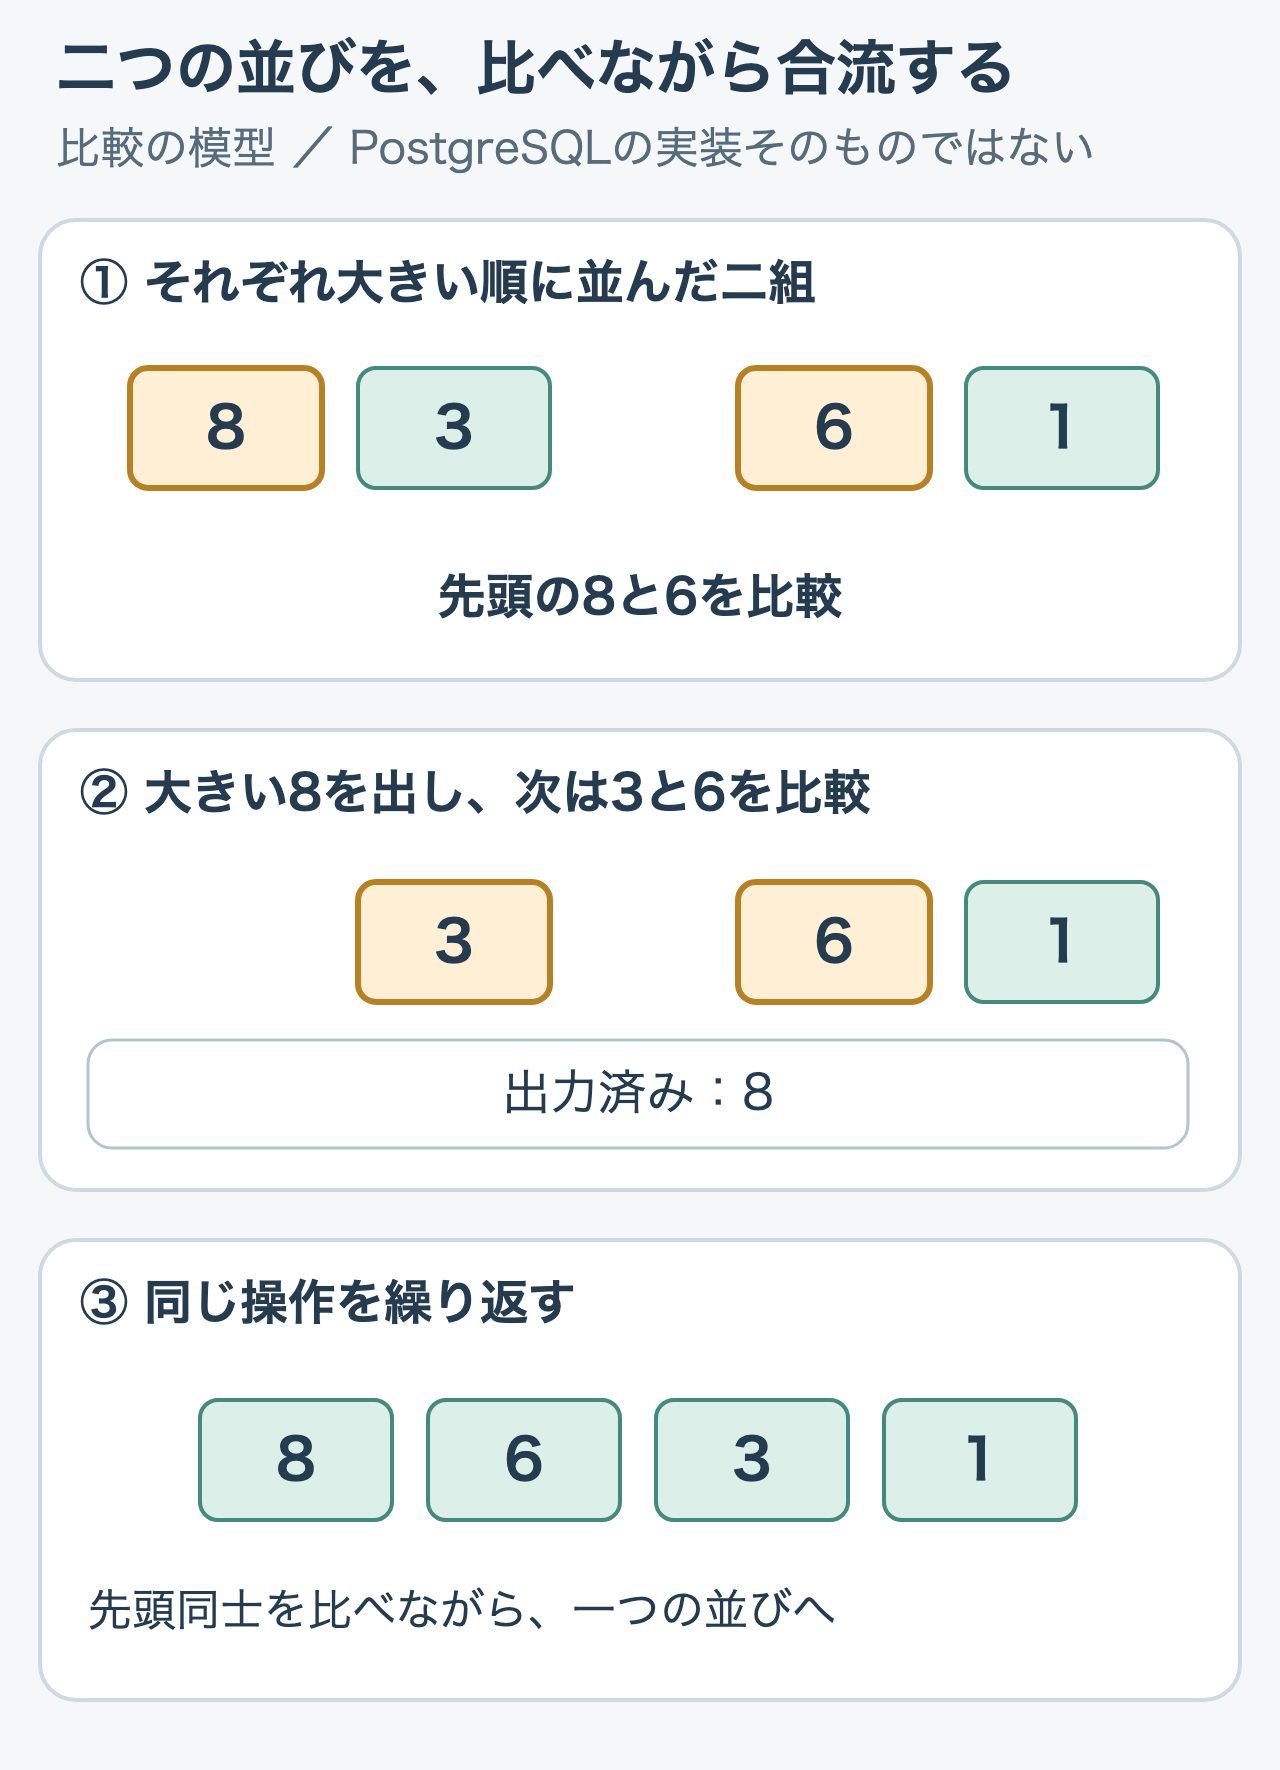
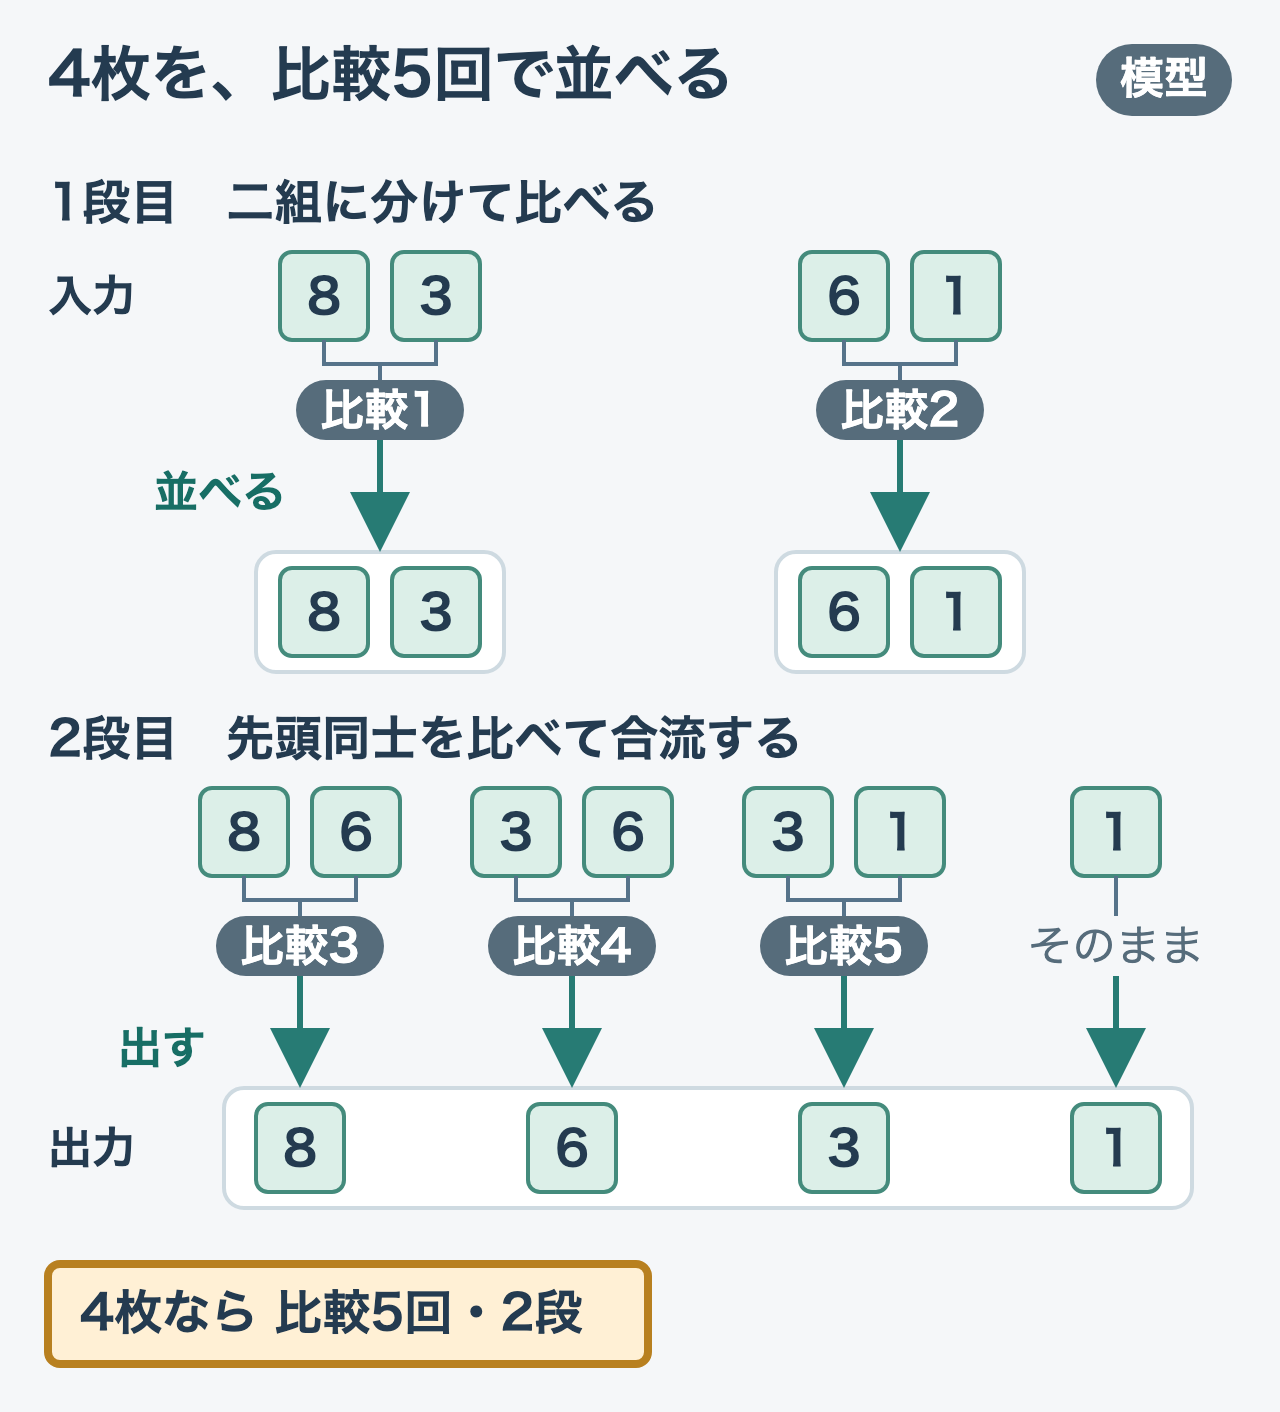
docs(query-journey): 第7章の比較の図を、4枚から比較5回で並べる2段の図にする
並べ済みの二組から始まり、比較の回数が分からなかった。8・3・6・1から二組を作る2回と、合流の3回に「比較1〜5」の札を付け、「4枚なら比較5回・2段」を焦点にした。設計書にあった「499,998行なら約19段」は、出典がなく実際の Sort とも違うので入れていない。

diff --git a/books/postgresql-query-journey/07-sort.md b/books/postgresql-query-journey/07-sort.md
@@ -31,8 +31,8 @@ ORDER BY finished_at DESC, book_id ASC;
 
 次は、二つの小さな並びを作って合流する模型です。PostgreSQLがメモリ内で使う方法は、後で実行計画から確かめます。この図は「比較して順序を作る」という点だけを示します。
 
-![二つの並びを、比べながら合流する](/images/postgresql-query-journey/07-merge-cards.png)
-*比較の模型で、PostgreSQLの実装そのものではありません。*
+![8・3・6・1を二組に分けて2回比べ、二つの並びの先頭同士を3回比べて合流し、8・6・3・1にする。比較は合わせて5回で2段](/images/postgresql-query-journey/07-merge-cards.png)
+*比べるたびに付けた番号で、4枚なら5回の比較で並ぶことを見てください（比較の模型。PostgreSQLの実装そのものではありません）。*
 
 並べ替えには、行を一度ずつ読む処理に加えて、値を比べて置く順序を決める処理があります。値を比べて並べる方法（比較ソート）では、比較の回数が件数`n`に対しておおむね`n log n`に比例して増えます。これを`O(n log n)`と書きます。行数が2倍になると、比較は2倍より少し多く必要です。
 
